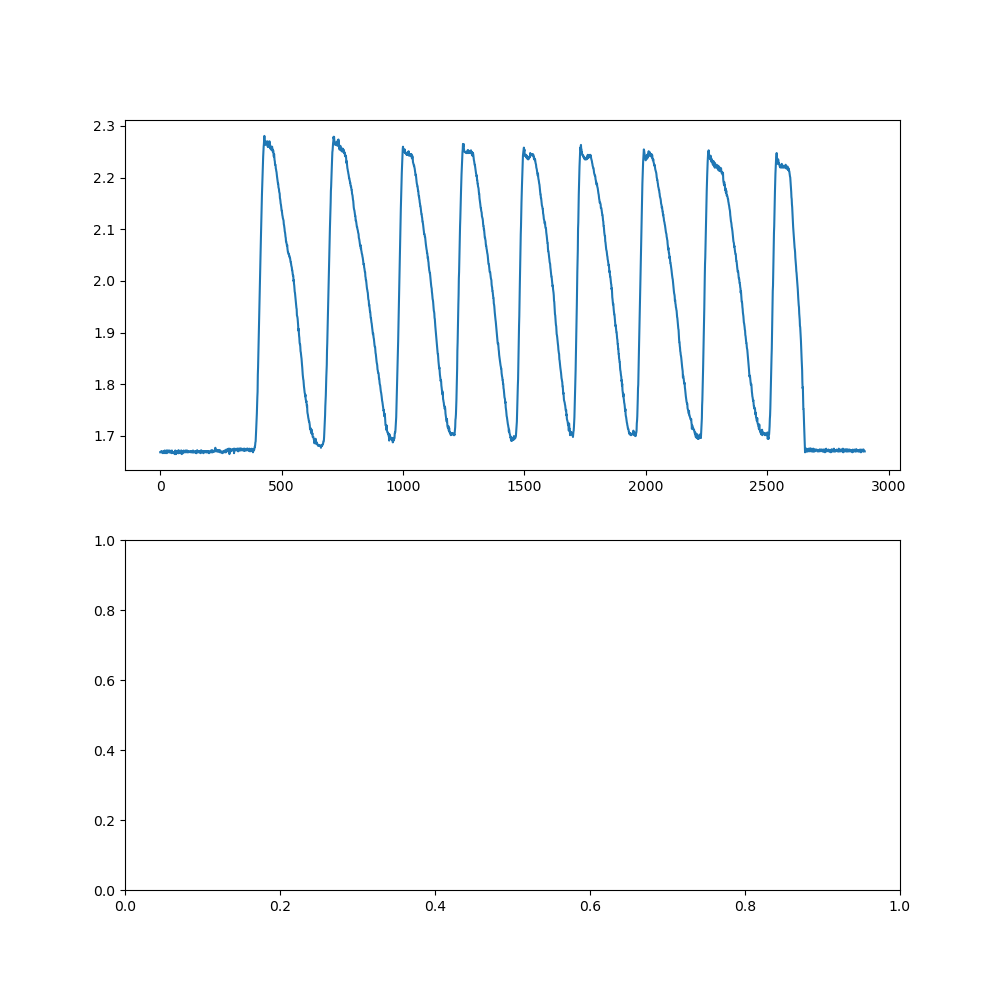
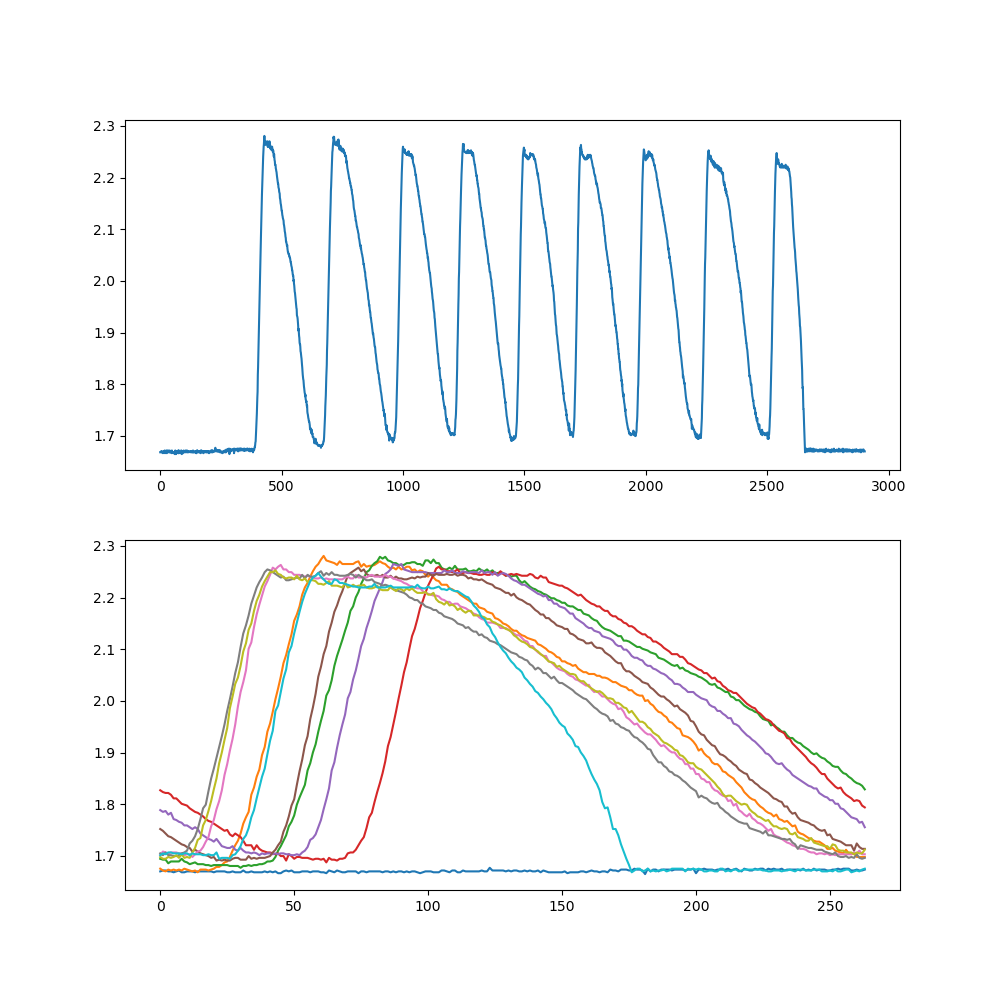
Changing extract_periodicity function

diff --git a/src/main.py b/src/main.py
@@ -25,16 +25,21 @@ def extract_periodicity(timeseries):
     cost_lag = np.zeros(max_lag)
     for lag in range(max_lag):
         periods = timeseries[lag : num_periods*wavelength + lag].reshape((num_periods, -1))
-        cost_lag[lag] = np.max(pairwise_distances(periods))
+        cost_lag[lag] = np.mean(pairwise_distances(periods))
     optimal_lag = np.argmin(cost_lag)
+    periodic_features = timeseries[optimal_lag : num_periods*wavelength + optimal_lag].reshape((num_periods, -1))
+
     return timeseries[optimal_lag : num_periods*wavelength + optimal_lag].reshape((num_periods, -1))
 
 def plot_periodic_features(timeseries, filename):
     periodic_features = extract_periodicity(timeseries)
     fig, ax = plt.subplots(2, 1, figsize=(10,10))
     ax[0].plot(timeseries)
+    for i in range(len(periodic_features)):
+        ax[1].plot(periodic_features[i])
     current_directory = os.getcwd()
     filepath = os.path.join(current_directory, "plots", filename)
     plt.savefig(filepath)
 
-plot_periodic_features(read_series_from_txt("Period1.txt"), "Plot1.png")
+for i in range(1,5):
+    plot_periodic_features(read_series_from_txt("Period{}.txt".format(i)), "Plot{}.png".format(i))
